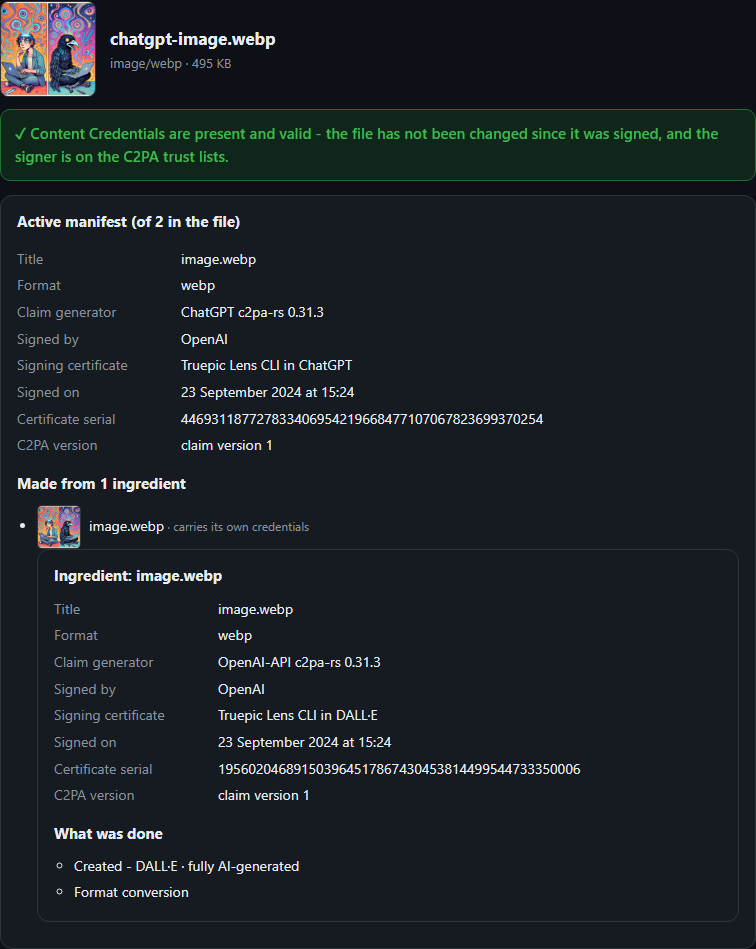
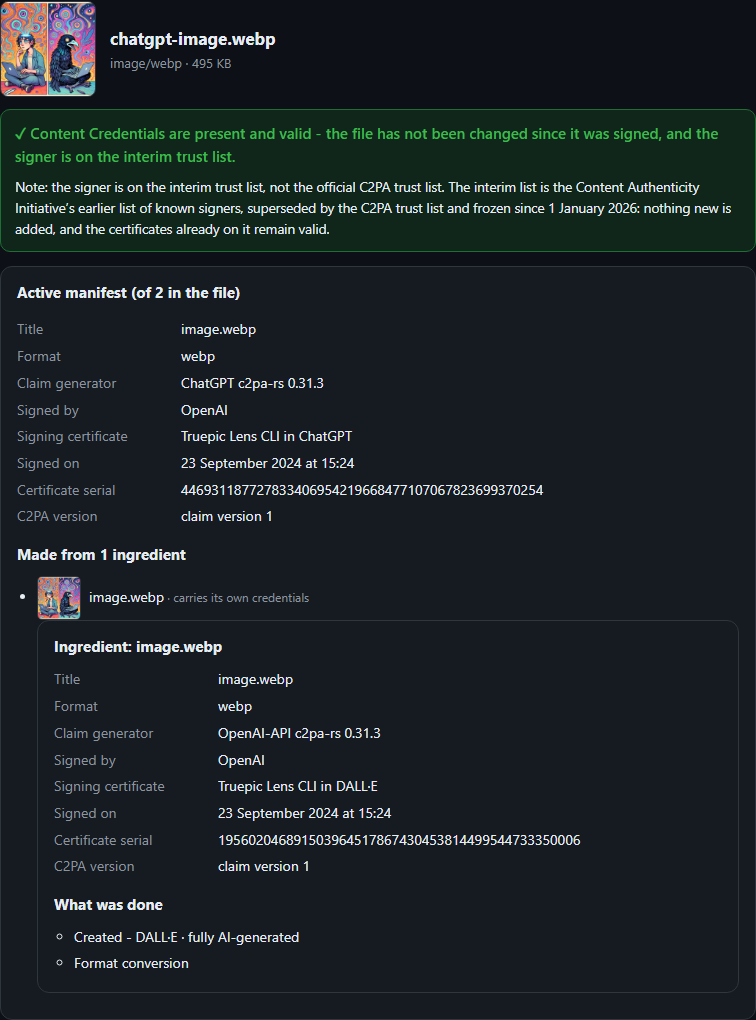
Green results say when the signer is on the interim trust list only (cv-v16)
A trusted result is read a second time against the official C2PA lists alone
(same certificate rules, no interim anchors or allowed list). Still trusted:
unchanged. Not trusted: "the signer is on the interim trust list", with a note
that the interim CAI list is superseded and frozen since 1 January 2026, as the
CAI asks validators to tell the two apart. A failed second read says "a trust
list" and that it could not tell. Amber and red unchanged; files that can't go
green are read once. Pages, llms.txt and both guide screenshots updated.

Changed region(s): [[0.0, 0.0, 1.0, 0.9473]]

diff --git a/check-if-image-is-ai-generated/index.html b/check-if-image-is-ai-generated/index.html
@@ -41,7 +41,7 @@
         "mainEntityOfPage": "https://c2paview.com/check-if-image-is-ai-generated/",
         "image": ["https://c2paview.com/og-ai-image-check.png", "https://c2paview.com/img/chatgpt-image-content-credentials.png"],
         "datePublished": "2026-11-22",
-        "dateModified": "2026-11-22",
+        "dateModified": "2026-11-23",
         "inLanguage": "en",
         "isPartOf": { "@type": "WebSite", "name": "c2paview", "url": "https://c2paview.com/" }
       },
@@ -73,7 +73,7 @@
       "name": "Does a green result mean the image is real?",
       "acceptedAnswer": {
         "@type": "Answer",
-        "text": "No. Green means the Content Credentials are intact, the file has not changed since it was signed, and the signer is on the C2PA trust list or the older interim trust list. If the signer is an AI tool and the record says the image was generated, a green result confirms exactly that."
+        "text": "No. Green means the Content Credentials are intact, the file has not changed since it was signed, and the signer is on the C2PA trust list or the older interim trust list (the result says which). If the signer is an AI tool and the record says the image was generated, a green result confirms exactly that."
       }
     },
     {
@@ -107,7 +107,7 @@
     <h1>Is this image AI-generated? How to check</h1>
     <p class="lead">Many AI tools now mark the images they make, most often in two ways: Content Credentials (C2PA), a signed record
       stored in the file, and SynthID, an invisible watermark. If either mark survived, you can check it in a minute. If neither did, these checks tell you nothing either way.</p>
-    <p class="updated">Updated 22 November 2026</p>
+    <p class="updated">Updated 23 November 2026</p>
     <a class="cta" href="/">Check a file now</a>
 
     <h2 id="quick-check">The quick check</h2>
@@ -123,18 +123,18 @@
 
     <h2 id="examples">What a real result looks like</h2>
     <figure>
-      <img src="/img/chatgpt-image-content-credentials.png" width="756" height="948" loading="lazy"
-        alt="c2paview result for a ChatGPT image: Content Credentials valid and signed by OpenAI; its DALL·E ingredient says Created - DALL·E, fully AI-generated, then a format conversion" />
+      <img src="/img/chatgpt-image-content-credentials.png" width="756" height="1019" loading="lazy"
+        alt="c2paview result for a ChatGPT image: Content Credentials valid, signer on the interim trust list, signed by OpenAI; its DALL·E ingredient says Created - DALL·E, fully AI-generated, then a format conversion" />
       <figcaption>An illustration made with DALL·E in ChatGPT in September 2024 (from
         <a href="https://commons.wikimedia.org/wiki/File:A_human_writer_and_a_creature_with_the_head_and_wings_of_a_crow,_both_sitting_and_typing_on_their_own_laptops,_experiencing_mild_hallucinations_(DALL-E_illustration).webp">Wikimedia Commons</a>,
-        public domain). OpenAI signed it twice: the DALL·E ingredient records "Created - DALL·E · fully AI-generated" and a format conversion, and ChatGPT's own manifest sits on top of it.</figcaption>
+        public domain). OpenAI signed it twice: the DALL·E ingredient records "Created - DALL·E · fully AI-generated" and a format conversion, and ChatGPT's own manifest sits on top of it. Its signer is on the older interim trust list, which the result notes.</figcaption>
     </figure>
     <figure>
-      <img src="/img/microsoft-designer-image-content-credentials.png" width="756" height="492" loading="lazy"
-        alt="c2paview result for an image from Microsoft Designer: Content Credentials valid, signed by Microsoft Corporation, created with Image Creator from Designer, fully AI-generated" />
+      <img src="/img/microsoft-designer-image-content-credentials.png" width="756" height="563" loading="lazy"
+        alt="c2paview result for an image from Microsoft Designer: Content Credentials valid, signer on the interim trust list, signed by Microsoft Corporation, created with Image Creator from Designer, fully AI-generated" />
       <figcaption>An image made with Image Creator in Microsoft Designer in June 2024 (from
         <a href="https://commons.wikimedia.org/wiki/File:AI_tanuki_Japanese_text.jpg">Wikimedia Commons</a>, public
-        domain), signed by Microsoft Corporation and marked fully AI-generated.</figcaption>
+        domain), signed by Microsoft Corporation and marked fully AI-generated; this signer, too, is on the interim trust list.</figcaption>
     </figure>
 
     <h2 id="content-credentials">What Content Credentials can tell you</h2>
@@ -209,7 +209,7 @@
       <h3>Can I tell if a screenshot of an image is AI-generated?</h3>
       <p>Usually not from its Content Credentials: a screenshot is a new file, without the original's record. A SynthID watermark can survive where metadata does not, so Google's SynthID Detector at synthid.com, or the maker's own checker (the Gemini app for Google, openai.com/verify for OpenAI), may still find it.</p>
       <h3>Does a green result mean the image is real?</h3>
-      <p>No. Green means the Content Credentials are intact, the file has not changed since it was signed, and the signer is on the C2PA trust list or the older interim trust list. If the signer is an AI tool and the record says the image was generated, a green result confirms exactly that.</p>
+      <p>No. Green means the Content Credentials are intact, the file has not changed since it was signed, and the signer is on the C2PA trust list or the older interim trust list (the result says which). If the signer is an AI tool and the record says the image was generated, a green result confirms exactly that.</p>
       <h3>Can someone remove the AI label?</h3>
       <p>Yes. Content Credentials are metadata and can be stripped, which is why their absence proves nothing. They cannot be altered without detection: any change to a signed record or to the content it covers shows as a failed check.</p>
       <h3>Is my image uploaded when I check it?</h3>

diff --git a/app.js b/app.js
@@ -21,8 +21,16 @@ const trustReady = (async () => {
     ].map((u) => fetch(u).then((r) => { if (!r.ok) throw new Error(u); return r.text(); })));
     trustEnabled = true;
     return {
-      trust: { trustAnchors: `${a1}\n${a2}\n${a3}`, allowedList: allowed, trustConfig: cfg },
-      verify: { verifyTrust: true, remoteManifestFetch: false },
+      all: {
+        trust: { trustAnchors: `${a1}\n${a2}\n${a3}`, allowedList: allowed, trustConfig: cfg },
+        verify: { verifyTrust: true, remoteManifestFetch: false },
+      },
+      // The official C2PA lists alone (same certificate rules): a signer trusted with `all` but not
+      // with this is on the frozen interim list only, which the result then says (see inspect()).
+      official: {
+        trust: { trustAnchors: `${a1}\n${a2}`, trustConfig: cfg },
+        verify: { verifyTrust: true, remoteManifestFetch: false },
+      },
     };
   } catch (e) { return null; }   // offline before first cache: integrity-only
 })();
@@ -30,7 +38,8 @@ const trustReady = (async () => {
 // default, following a URL inside the file): this viewer reads only what is embedded, and the
 // privacy promise must not depend on the CSP blocking the request. Without the lists, trust
 // checking is switched off explicitly, so an intact file reads amber: intact, signer not checked.
-const contextReady = trustReady.then((s) => new Context(s || { verify: { verifyTrust: false, remoteManifestFetch: false } }));
+const contextReady = trustReady.then((s) => new Context(s ? s.all : { verify: { verifyTrust: false, remoteManifestFetch: false } }));
+const officialContextReady = trustReady.then((s) => (s ? new Context(s.official) : null));
 
 // The SDK wants the format; browsers leave file.type empty for some types (and always for .c2pa).
 const EXT_TYPES = {
@@ -451,7 +460,17 @@ function showResult(file, report) {
     }
     banner.appendChild(b);
   } else if (!status.length && signedOk && trustEnabled && trusted) {
-    banner.appendChild(elc('div', 'verdict-msg good', `✓ Content Credentials are present and valid - ${intact}, and the signer is on the C2PA trust lists.`));
+    // Which list vouched for the signer (inspect() checks again against the official lists alone):
+    // the frozen interim CAI list is still trusted, but the CAI asks validators to tell the two apart.
+    const src = report.trustSource;
+    const onList = src === 'interim' ? 'the interim trust list' : src === 'unknown' ? 'a trust list' : 'the C2PA trust lists';
+    const b = elc('div', 'verdict-msg good', `✓ Content Credentials are present and valid - ${intact}, and the signer is on ${onList}.`);
+    if (src === 'interim') {
+      b.appendChild(elc('div', 'trust-note', 'Note: the signer is on the interim trust list, not the official C2PA trust list. The interim list is the Content Authenticity Initiative’s earlier list of known signers, superseded by the C2PA trust list and frozen since 1 January 2026: nothing new is added, and the certificates already on it remain valid.'));
+    } else if (src === 'unknown') {
+      b.appendChild(elc('div', 'trust-note', 'Note: c2paview could not tell whether the signer is on the official C2PA trust list or only on the older interim list.'));
+    }
+    banner.appendChild(b);
   } else if (!status.length && signedOk && !trustEnabled) {
     // Green means the signer is trusted; without the lists that was never checked, so amber.
     banner.appendChild(elc('div', 'verdict-msg warn', `✓ ${Intact} - but the trust lists could not be loaded, so the signer was not checked against them and can’t be verified. Judge the issuer name below as you would an unknown email sender.`));
@@ -509,6 +528,26 @@ async function postMortem(file, banner) {
 // revoked) when the next file is read. `seq` stops a slow read from overwriting a newer one.
 let current = null, seq = 0;
 const release = (r) => { try { Promise.resolve(r && r.free()).catch(() => {}); } catch (e) { /* already freed */ } };
+// The active manifest's signer was reported trusted (the same test the green verdict uses).
+function signerTrusted(store) {
+  const active = store && store.active_manifest;
+  return !!active && resultsOf(store).success.some((s) => s.code === 'signingCredential.trusted' && (s.url || '').includes(`/${active}/`));
+}
+// A trusted signer may be on the official C2PA trust list or only on the frozen interim CAI list:
+// read the file again against the official lists alone. 'official' | 'interim', or 'unknown' if that
+// second read fails. Runs only for trusted results, so a file that can't go green costs no extra read.
+async function officialOrInterim(c2pa, file) {
+  let r = null;
+  try {
+    const official = await officialContextReady;
+    if (!official) return 'unknown';
+    r = await Reader.fromBlob(c2pa, formatOf(file), file, official);
+    const s = r ? await r.manifestStore() : null;
+    return signerTrusted(s) ? 'official' : 'interim';
+  } catch (e) {
+    return 'unknown';
+  } finally { release(r); }
+}
 async function inspect(file) {
   const mine = ++seq;
   $('#result').hidden = false;
@@ -528,9 +567,11 @@ async function inspect(file) {
     reader = await Reader.fromBlob(c2pa, formatOf(file), file, context);   // null: no manifest
     const store = reader ? await reader.manifestStore() : null;
     if (mine !== seq) { release(reader); return; }
+    const trustSource = signerTrusted(store) ? await officialOrInterim(c2pa, file) : undefined;
+    if (mine !== seq) { release(reader); return; }
     current = { reader, urls: [] };
     reader = null;
-    showResult(file, { store, reader: current.reader, urls: current.urls });
+    showResult(file, { store, reader: current.reader, urls: current.urls, trustSource });
   } catch (e) {
     release(reader);
     if (mine === seq) showResult(file, { error: readError(e) });

diff --git a/index.html b/index.html
@@ -87,7 +87,7 @@
       "name": "What does a green result prove?",
       "acceptedAnswer": {
         "@type": "Answer",
-        "text": "That the file carries Content Credentials, the cryptographic checks pass, the file has not been modified since signing, and the signer's certificate chains to the C2PA trust list or the older interim trust list. If the file is intact but the signer is not on those lists, or the lists could not be loaded, an amber result says so - the identity of the signer can't be verified. A red result means a check failed, and it says which: content that no longer matches means the file was changed after signing, while a bad signature, certificate or manifest means the credentials can't be relied on, which by itself doesn't show the file was edited. What each code means: <a href=\"/c2pa-validation-codes/\">C2PA validation codes explained</a>."
+        "text": "That the file carries Content Credentials, the cryptographic checks pass, the file has not been modified since signing, and the signer's certificate chains to the C2PA trust list or the older interim trust list; when it is only on the interim list, the result says so. If the file is intact but the signer is not on those lists, or the lists could not be loaded, an amber result says so - the identity of the signer can't be verified. A red result means a check failed, and it says which: content that no longer matches means the file was changed after signing, while a bad signature, certificate or manifest means the credentials can't be relied on, which by itself doesn't show the file was edited. What each code means: <a href=\"/c2pa-validation-codes/\">C2PA validation codes explained</a>."
       }
     },
     {
@@ -208,7 +208,7 @@
     </div>
     <div class="explain-card">
       <h3>What does a green result prove?</h3>
-      <p>That the file carries Content Credentials, the cryptographic checks pass, the file has not been modified since signing, and the signer's certificate chains to the C2PA trust list or the older interim trust list. If the file is intact but the signer is not on those lists, or the lists could not be loaded, an amber result says so - the identity of the signer can't be verified. A red result means a check failed, and it says which: content that no longer matches means the file was changed after signing, while a bad signature, certificate or manifest means the credentials can't be relied on, which by itself doesn't show the file was edited. What each code means: <a href="/c2pa-validation-codes/">C2PA validation codes explained</a>.</p>
+      <p>That the file carries Content Credentials, the cryptographic checks pass, the file has not been modified since signing, and the signer's certificate chains to the C2PA trust list or the older interim trust list; when it is only on the interim list, the result says so. If the file is intact but the signer is not on those lists, or the lists could not be loaded, an amber result says so - the identity of the signer can't be verified. A red result means a check failed, and it says which: content that no longer matches means the file was changed after signing, while a bad signature, certificate or manifest means the credentials can't be relied on, which by itself doesn't show the file was edited. What each code means: <a href="/c2pa-validation-codes/">C2PA validation codes explained</a>.</p>
     </div>
     <div class="explain-card">
       <h3>What does 'Who vouches for it' mean?</h3>

diff --git a/what-is-c2pa/index.html b/what-is-c2pa/index.html
@@ -41,7 +41,7 @@
         "mainEntityOfPage": "https://c2paview.com/what-is-c2pa/",
         "image": "https://c2paview.com/og-what-is-c2pa.png",
         "datePublished": "2026-11-22",
-        "dateModified": "2026-11-22",
+        "dateModified": "2026-11-23",
         "inLanguage": "en",
         "isPartOf": { "@type": "WebSite", "name": "c2paview", "url": "https://c2paview.com/" }
       },
@@ -99,7 +99,7 @@
     <h1>What is C2PA?</h1>
     <p class="lead">C2PA is an open technical standard for recording where a digital file came from and how it has been
       changed. The record it defines is called Content Credentials: a signed history carried with the file, so anyone can check who signed it, whether that signer is on a trust list, and whether the file has been altered since.</p>
-    <p class="updated">Updated 22 November 2026</p>
+    <p class="updated">Updated 23 November 2026</p>
     <a class="cta" href="/">Check a file's Content Credentials</a>
 
     <h2 id="in-short">C2PA in one paragraph</h2>
@@ -146,7 +146,7 @@
       anchors that issue certificates to hardware &amp; software signers". Products earn a place through the C2PA
       Conformance Program, launched on 4 June 2025: "54 products from 31 companies have passed conformance (as of May 14,
       2026)". An earlier interim trust list was frozen on 1 January 2026; during the transition, validators may consult both it and the C2PA trust list, but must tell the two apart.
-      c2paview checks the official lists and the frozen interim list, does not yet tell the two apart, and shows amber when the signer is on neither.</p>
+      c2paview checks the official lists and the frozen interim list, says when a signer is on the interim list only, and shows amber when the signer is on neither.</p>
 
     <h2 id="cr-icon">The "cr" icon</h2>
     <p>On 10 October 2023 the C2PA introduced the official Content Credentials icon, "a minimalist pin containing the

diff --git a/c2pa-validation-codes/index.html b/c2pa-validation-codes/index.html
@@ -41,7 +41,7 @@
         "mainEntityOfPage": "https://c2paview.com/c2pa-validation-codes/",
         "image": "https://c2paview.com/og-validation-codes.png",
         "datePublished": "2026-11-22",
-        "dateModified": "2026-11-22",
+        "dateModified": "2026-11-23",
         "inLanguage": "en",
         "isPartOf": { "@type": "WebSite", "name": "c2paview", "url": "https://c2paview.com/" }
       },
@@ -100,13 +100,13 @@
     <p class="lead">When a validator checks a file's Content Credentials, it reports each check as a status code: a
       success, an informational note or a failure. Version 2.5 of the C2PA specification (October 2026) defines 126 of
       them. Below: the ones you are most likely to meet, in plain words, then every code in the specification's own words.</p>
-    <p class="updated">Updated 22 November 2026</p>
+    <p class="updated">Updated 23 November 2026</p>
     <a class="cta" href="/">Check a file now</a>
 
     <h2 id="colours">How c2paview turns codes into green, amber and red</h2>
     <ul>
       <li><strong class="cat good">Green</strong>: no failure codes, the signature validated
-        (<code>claimSignature.validated</code>), and the signer is on the C2PA trust list or the older interim trust list (<code>signingCredential.trusted</code>, validation state Trusted).</li>
+        (<code>claimSignature.validated</code>), and the signer is on the C2PA trust list or the older interim trust list (<code>signingCredential.trusted</code>, validation state Trusted). A note says when it is the interim list: c2paview checks the file a second time against the official lists alone.</li>
       <li><strong class="cat warn">Amber</strong>: the only failure is <code>signingCredential.untrusted</code>, so the
         file is intact but who signed it can't be confirmed; or the trust lists could not be loaded; or the checks did not
         come back conclusive either way.</li>

diff --git a/styles.css b/styles.css
@@ -46,6 +46,7 @@ code { font-family: ui-monospace, Consolas, monospace; font-size: 0.92em; }
 .verdict-msg li { margin: 3px 0; }
 .verdict-msg li code { opacity: 0.8; }
 .verdict-msg .where { color: var(--muted); font-size: 12.5px; font-weight: 400; }
+.verdict-msg .trust-note { margin-top: 8px; font-weight: 400; font-size: 13.5px; color: var(--ink); }
 .verdict-msg .affected { margin-top: 8px; font-weight: 400; font-size: 13px; color: var(--muted); word-break: break-all; }
 
 .card { background: var(--panel); border: 1px solid var(--line); border-radius: 12px; padding: 14px 16px; margin-bottom: 12px; }

diff --git a/sw.js b/sw.js
@@ -7,7 +7,7 @@
 //  - The shell is '/', never '/index.html': that URL 301s to '/' (the canonical-host function), so
 //    a precached copy would be a redirected response, which browsers refuse for a navigation (an
 //    offline /?shared=<id> handoff would fail).
-const CACHE = 'cv-v15';
+const CACHE = 'cv-v16';
 const CORE = [
 	'/',
 	'/styles.css',
